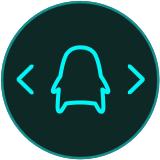
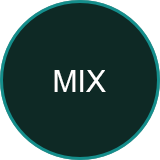
Mixed HQ works. (no polishment, just mechanics)

diff --git a/Classes/NavigationLayer.cpp b/Classes/NavigationLayer.cpp
@@ -29,7 +29,7 @@ using namespace cocos2d;
 NS_AZOOMEE_BEGIN
 
 
-int amountOfItems = 5;
+int amountOfItems = 6;
 
 Scene* NavigationLayer::createScene()
 {
@@ -107,7 +107,7 @@ void NavigationLayer::startLoadingGroupHQ(std::string uri)
     HQHistoryManager::getInstance()->addHQToHistoryManager(ConfigStorage::kGroupHQName);
     
     this->getParent()->getChildByName("contentLayer")->stopAllActions();
-    this->getParent()->getChildByName("contentLayer")->runAction(Sequence::create(EaseInOut::create(MoveTo::create(0.5, ConfigStorage::getInstance()->getTargetPositionForMove(6)), 2), DelayTime::create(0.5), NULL));
+    this->getParent()->getChildByName("contentLayer")->runAction(Sequence::create(EaseInOut::create(MoveTo::create(0.5, ConfigStorage::getInstance()->getTargetPositionForMove(7)), 2), DelayTime::create(0.5), NULL));
     
     moveMenuPointsToHorizontalStateInGroupHQ(0.5);
     turnOffAllMenuItems();

diff --git a/common/Classes/AzoomeeCommon/UI/ElectricDreamsButton.cpp b/common/Classes/AzoomeeCommon/UI/ElectricDreamsButton.cpp
@@ -517,7 +517,7 @@ ElectricDreamsButton* ElectricDreamsButton::createChildSelectorButton()
     spriteOuterButton->setColor(Color3B::WHITE);
     layer->addChild(spriteOuterButton);
     
-    Sprite* spriteInnerButton = Sprite::create("res/navigation/menu6.png");
+    Sprite* spriteInnerButton = Sprite::create("res/navigation/menu_childSelect.png");
     spriteInnerButton->setPosition(spriteOuterButton->getContentSize().width/2, spriteOuterButton->getContentSize().height/2);
     spriteOuterButton->addChild(spriteInnerButton);
     

diff --git a/Classes/BaseScene.cpp b/Classes/BaseScene.cpp
@@ -81,6 +81,7 @@ void BaseScene::startBuildingHQs()
     createHQScene2(ConfigStorage::kAudioHQName, contentLayer);
     createHQScene2(ConfigStorage::kArtAppHQName, contentLayer);
     createHQScene2(ConfigStorage::kGroupHQName, contentLayer);
+    createHQScene2(ConfigStorage::kMixHQName, contentLayer);
     
     addNavigationLayer();  //The navigation layer is being added to "this", because that won't move with the menu.
 }

diff --git a/common/Classes/AzoomeeCommon/Data/ConfigStorage.cpp b/common/Classes/AzoomeeCommon/Data/ConfigStorage.cpp
@@ -24,6 +24,7 @@ static ConfigStorage *_sharedConfigStorage = NULL;
     const char* const ConfigStorage::kGroupHQName = "GROUP HQ";
     const char* const ConfigStorage::kHomeHQName = "HOME";
     const char* const ConfigStorage::kArtAppHQName = "ARTS APP";
+    const char* const ConfigStorage::kMixHQName = "MIX HQ";
     
     const char* const ConfigStorage::kDefaultHQName = kGameHQName;
     

diff --git a/common/Classes/AzoomeeCommon/Data/ConfigStorage.h b/common/Classes/AzoomeeCommon/Data/ConfigStorage.h
@@ -24,6 +24,7 @@ public:
         HOME,
         ARTS_APP,
         GAME_HQ,
+        MIX_HQ,
         GROUP_HQ
     };
     
@@ -33,6 +34,7 @@ public:
     static const char* const kGroupHQName;
     static const char* const kHomeHQName;
     static const char* const kArtAppHQName;
+    static const char* const kMixHQName;
     
     static const char* const kDefaultHQName;
     

diff --git a/Classes/BackEndCaller.cpp b/Classes/BackEndCaller.cpp
@@ -491,7 +491,7 @@ void BackEndCaller::onHttpRequestSuccess(const std::string& requestTag, const st
     }
     else
     {
-        for(int i = 0; i < 6; i++)
+        for(int i = 0; i < 7; i++)
         {
             if(requestTag == ConfigStorage::getInstance()->getNameForMenuItem(i))
             {
